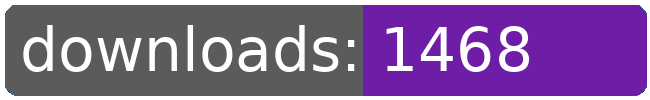
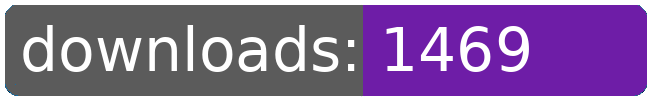
dl log written

Changed region(s): [[0.7692, 0.27, 0.8308, 0.72]]

diff --git a/README.md b/README.md
@@ -21,8 +21,8 @@
 		<td>1405</td>
 		<td>1430</td>
 		<td>1457</td>
-		<td>1468</td>
-		<td>+ 11</td>
+		<td>1469</td>
+		<td>+ 12</td>
 	</tr>
 	<tr>
 		<td>aberrant.kahet.outfitter</td>
@@ -252,8 +252,8 @@
 		<td></td>
 		<td></td>
 		<td></td>
-		<td>20070</td>
-		<td>55</td>
+		<td>20071</td>
+		<td>56</td>
 	</tr>
 </table>
 </sub></sup>
@@ -311,8 +311,8 @@
 		<td>1405</td>
 		<td>1430</td>
 		<td>1457</td>
-		<td>1468</td>
-		<td>+ 11</td>
+		<td>1469</td>
+		<td>+ 12</td>
 	</tr>
 	<tr>
 		<td>purchase.bactrian</td>
@@ -509,8 +509,8 @@
 		<td></td>
 		<td></td>
 		<td></td>
-		<td>20070</td>
-		<td>55</td>
+		<td>20071</td>
+		<td>56</td>
 	</tr>
 </table>
 </sub></sup>
@@ -538,7 +538,7 @@
 		<td>46</td>
 		<td>18</td>
 		<td>40</td>
-		<td>3</td>
+		<td>21</td>
 	</tr>
 	<tr>
 		<td>unique visitors</td>
@@ -550,7 +550,7 @@
 		<td>13</td>
 		<td>9</td>
 		<td>18</td>
-		<td>2</td>
+		<td>5</td>
 	</tr>
 </table>
 <br>
@@ -564,8 +564,8 @@
 	</tr>
 	<tr>
 		<td>2025-10-15</td>
-		<td>2544</td>
-		<td>513</td>
+		<td>2562</td>
+		<td>516</td>
 		<td>192</td>
 		<td>21</td>
 	</tr>
@@ -578,8 +578,8 @@
 	</tr>
 	<tr>
 		<td>53</td>
-		<td>48.00</td>
-		<td>9.68</td>
+		<td>48.34</td>
+		<td>9.74</td>
 		<td></td>
 		<td></td>
 	</tr>
